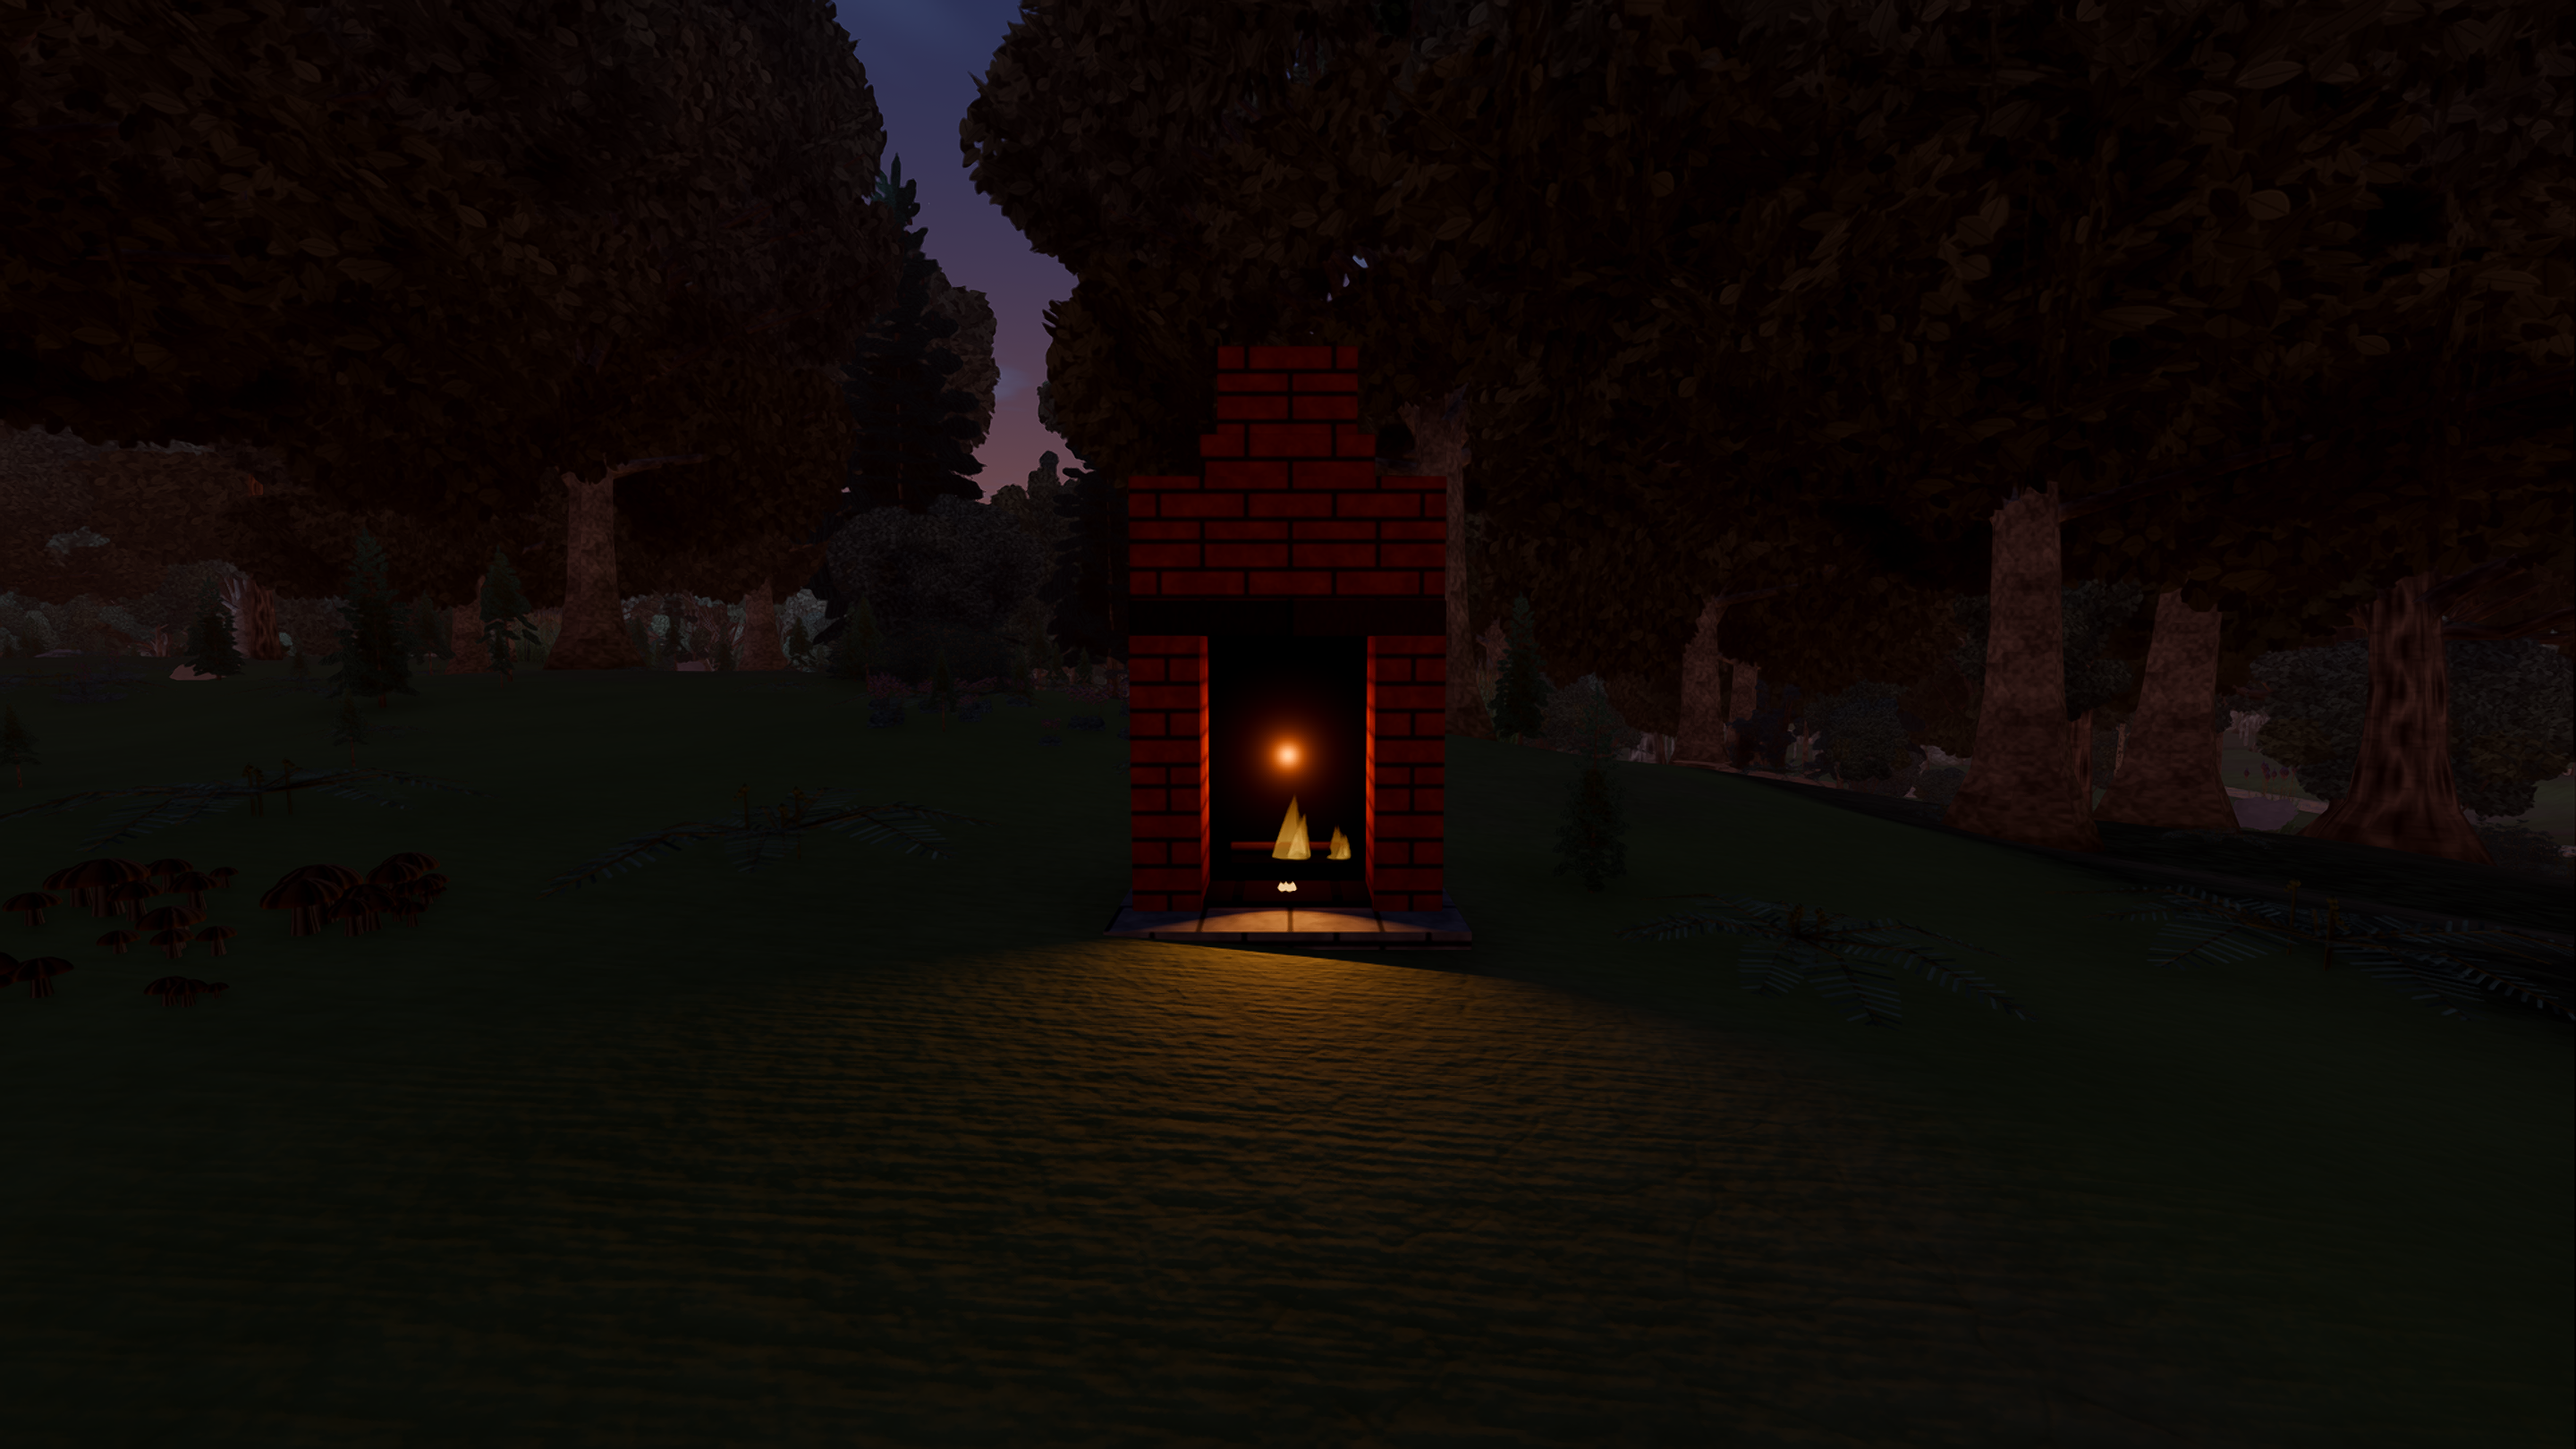
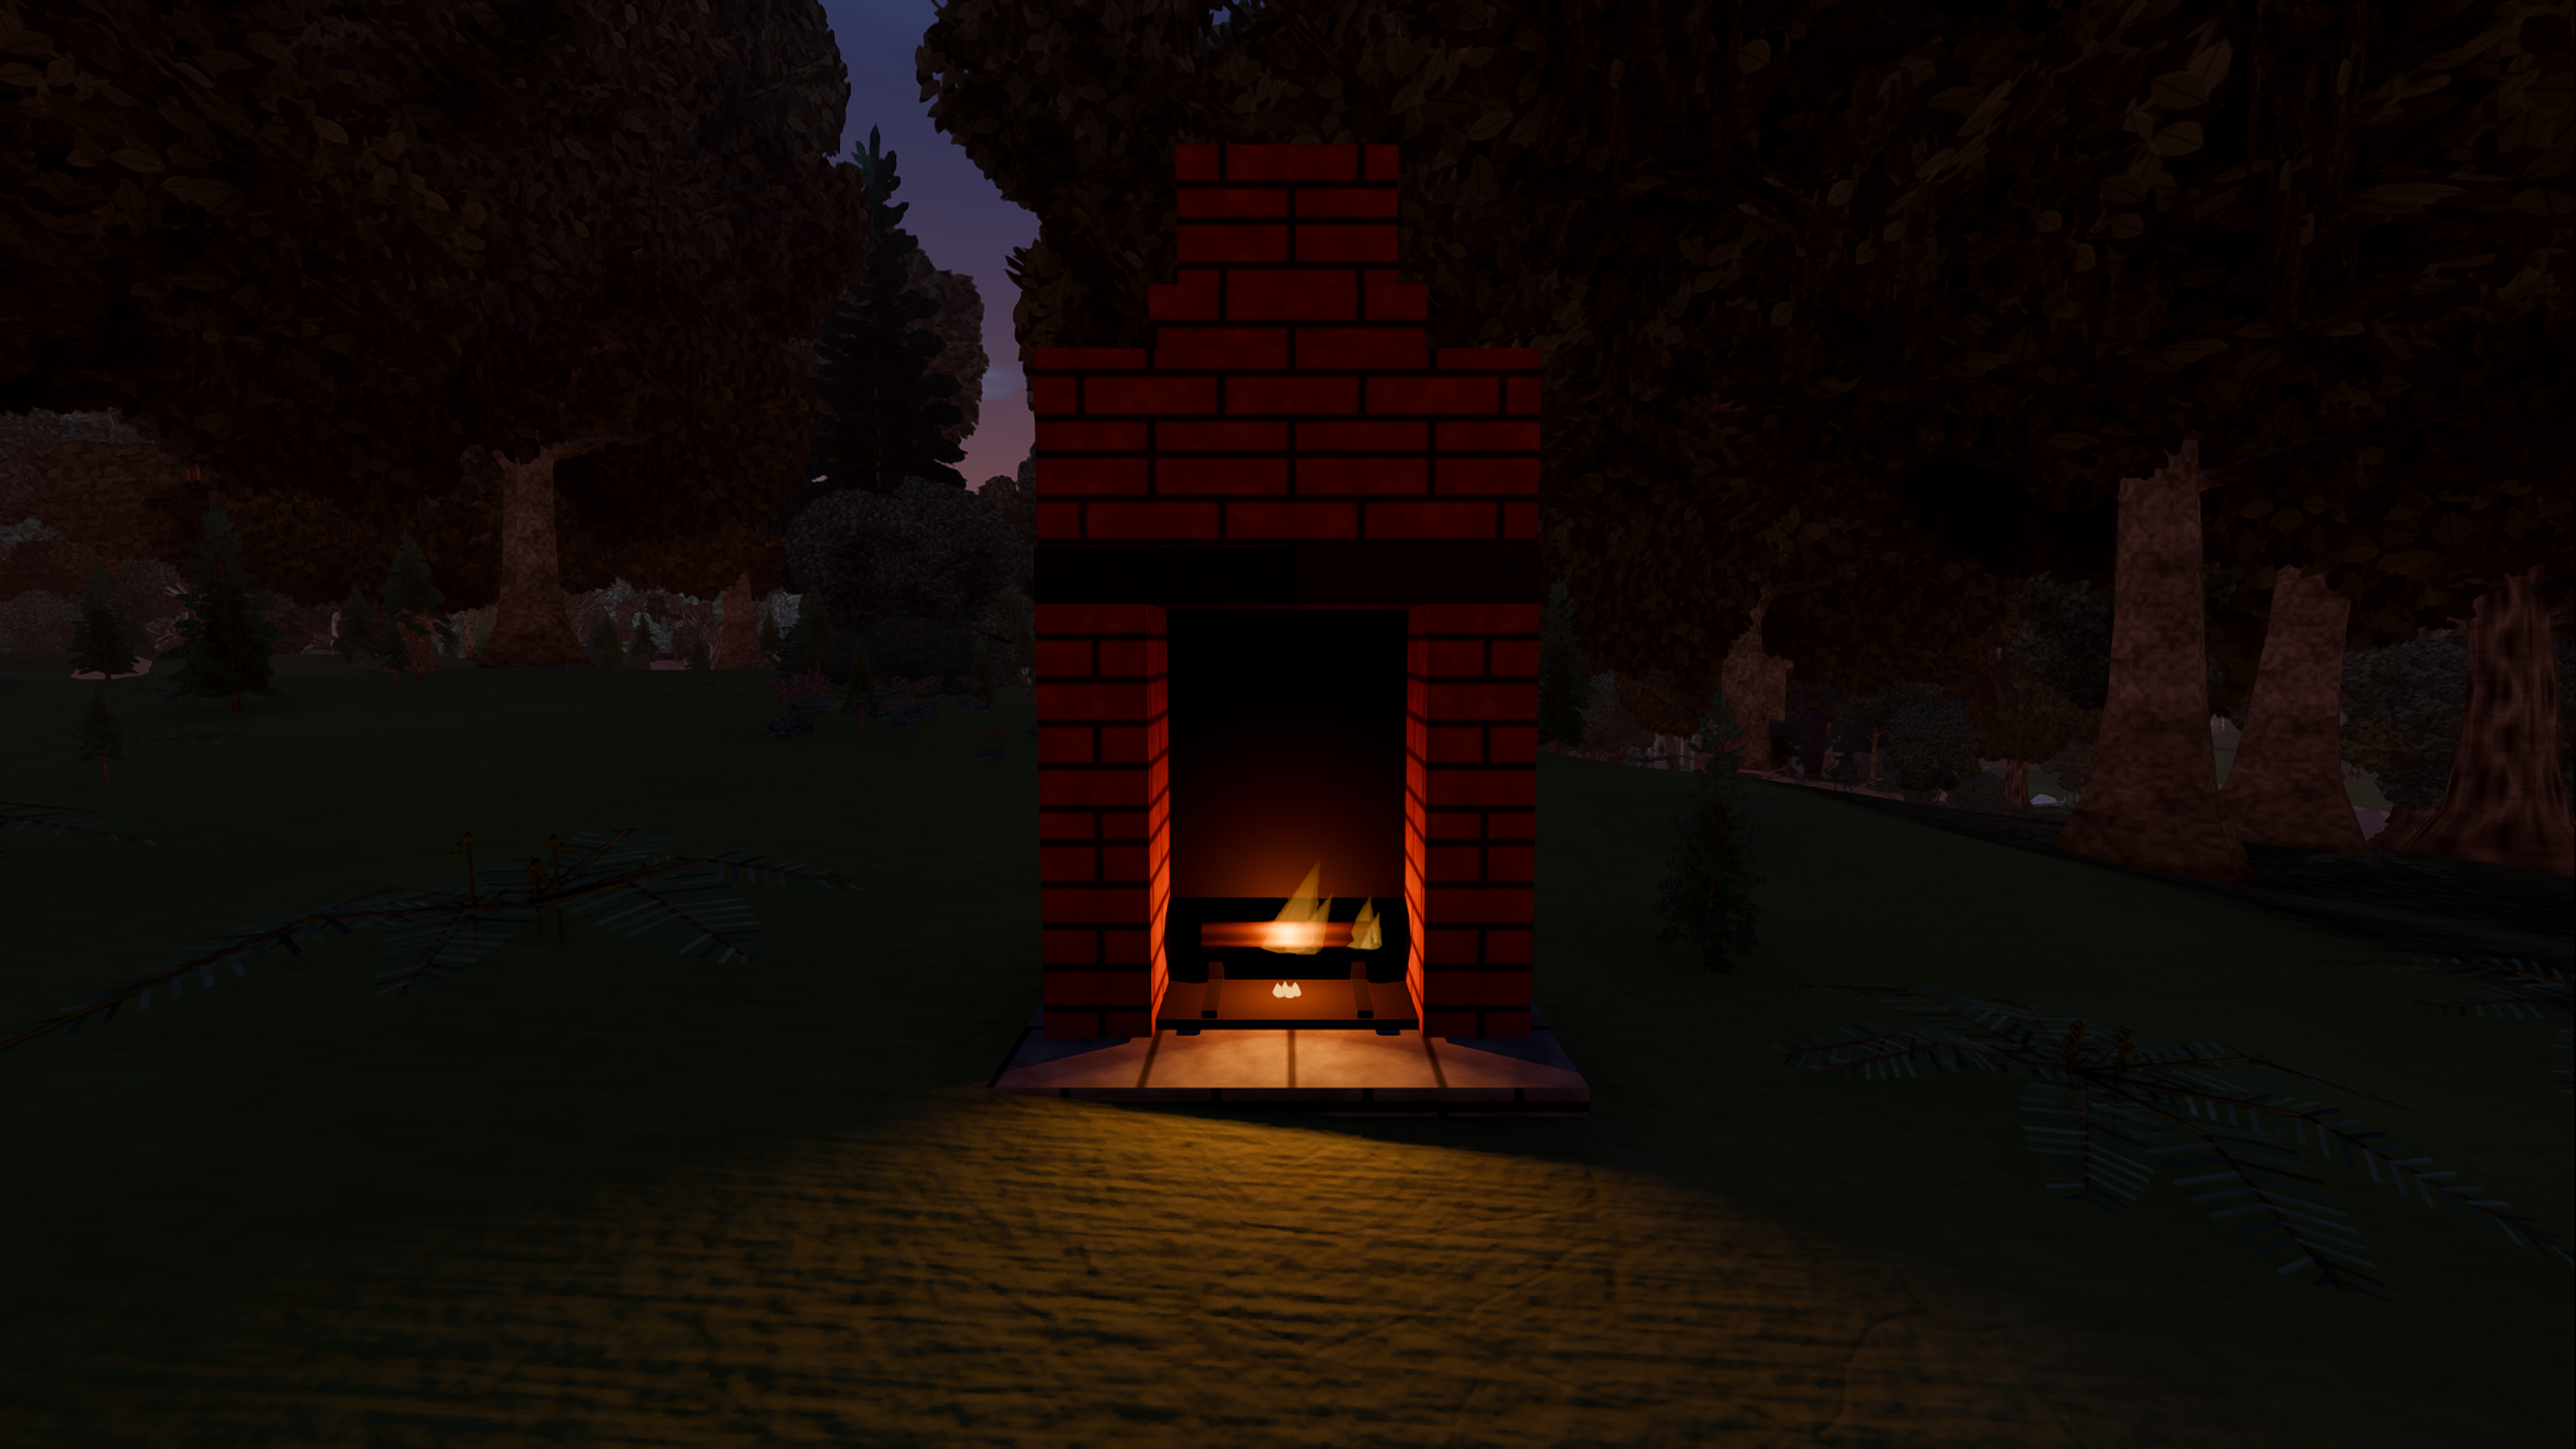
QA card fireplace light: new front picture

diff --git a/questions/QUESTIONS.md b/questions/QUESTIONS.md
@@ -124,7 +124,7 @@ Note: Render of eight variants side by side with plain white leaves (the game's 
 
 ## pic-fireplace-light | Does the lit fireplace light up the ground in front of it only (front shown), with the sides and back dark?
 Image: questions/img/fireplace_light_front.png
-Note: Real game at dusk, with Tyler's front-facing spot light (the side view is questions/img/fireplace_light_side.png: dark at the side, light only in front). Kathleen rates it 3.5 of 5: the cone and shadows are right; the opening shows a floating orange dot above the fire.
+Note: Real game at dusk, with Tyler's front-facing spot light (the side view is questions/img/fireplace_light_side.png: dark at the side, light only in front). Kathleen rates it 4.5 of 5: the cone and shadows are right and the brick inside glows warm.
 - Yes
 - No
 
